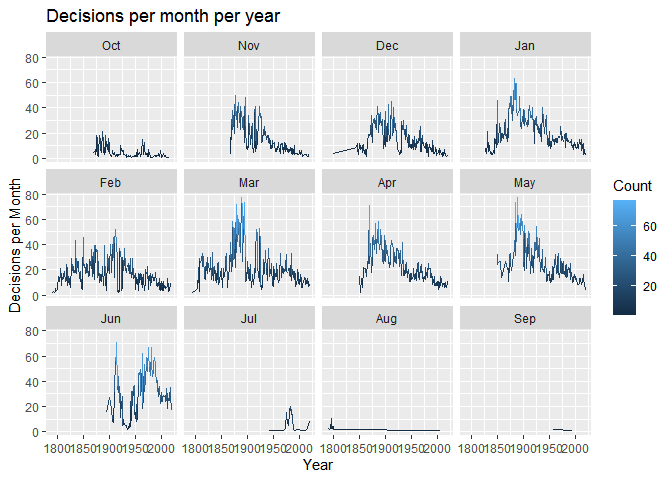
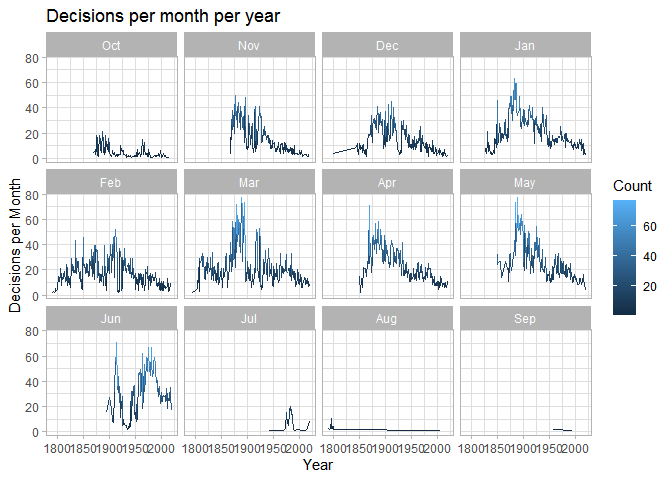
Solved the remaining bug and just finished the ex 5. Improved visualization on some lines.

Changed region(s): [[0.0625, 0.0625, 0.9062, 0.9062]]

diff --git a/scotus.md b/scotus.md
@@ -32,6 +32,8 @@ library(lubridate)
     ##     date, intersect, setdiff, union
 
 ``` r
+theme_set(theme_light())
+
 # load data
 case_data <- read_csv("data/scdb-case.csv")
 ```
@@ -99,12 +101,17 @@ case_data %>%
   mutate(difference = majVotes - minVotes) %>%
   group_by(term) %>%
   summarize(one_vote_margin = sum(difference == "1") / n()) %>%
-  ggplot() +
-  geom_line(aes(x = term, y = one_vote_margin, color = one_vote_margin)) +
+  ggplot(aes(x = term, y = one_vote_margin, color = one_vote_margin)) +
+  geom_line() +
+  geom_smooth() +
   labs(title = "Percentage of one-vote margin decisions per term", x = "Term", y = "Percentage", color = "Percentage")
 ```
 
     ## `summarise()` ungrouping output (override with `.groups` argument)
+
+    ## `geom_smooth()` using method = 'loess' and formula 'y ~ x'
+
+    ## Warning: Removed 15 rows containing non-finite values (stat_smooth).
 
 ![](scotus_files/figure-gfm/unnamed-chunk-3-1.png)<!-- -->
 
@@ -161,7 +168,8 @@ dated_case_data <- case_data %>%
 unCon_data <- case_data %>%
   inner_join(vote_data) %>% #coordinate individual justices with constitutionality ruling
   group_by(justiceName) %>% #using individual justices as frame of analysis
-  filter(declarationUncon != 1 & n() > 30) %>% #filtering out unwanted cases
+  filter(declarationUncon != 1) %>% #filtering unconstitutionality rulings
+  filter(n() >= 30) %>% #filtering out unwanted cases
   summarize(agree_unCon = sum(vote == 1, na.rm = TRUE) / n()) #creating a "proportion of agreement" variable, while avoiding NA messing up the analysis
 ```
 
@@ -174,8 +182,8 @@ most_agr <- slice_max(unCon_data, n = 10, agree_unCon) #slicing top 10 most agre
 least_agr <- slice_min(unCon_data, n = 10, agree_unCon) #slicing top 10 least agreeable
 
 ggplot(most_agr) +
-  geom_col(aes(x = justiceName, y = agree_unCon, fill = agree_unCon)) +
-  labs(title = "Unconstitutionality Agreement", x = "Justice Name", y = "Ratio of Agreements", fill = "Agreements") +
+  geom_col(aes(x = justiceName, y = agree_unCon, fill = justiceName)) +
+  labs(title = "Unconstitutionality Agreement", x = "Justice Name", y = "Ratio of Agreements", fill = "Justices") +
   coord_flip()
 ```
 
@@ -183,14 +191,33 @@ ggplot(most_agr) +
 
 ``` r
 ggplot(least_agr) +
-  geom_col(aes(x = justiceName, y = agree_unCon, fill = agree_unCon)) +
-  labs(title = "Unconstitutionality Disagreement", x = "Justice Name", y = "Ratio of Agreements", fill = "Agreements") +
+  geom_col(aes(x = justiceName, y = agree_unCon, fill = justiceName)) +
+  labs(title = "Unconstitutionality Disagreement", x = "Justice Name", y = "Ratio of Agreements", fill = "Justices") +
   coord_flip()
 ```
 
 ![](scotus_files/figure-gfm/unnamed-chunk-6-2.png)<!-- -->
 
 ## In each term he served on the Court, in what percentage of cases was Justice Antonin Scalia in the majority?
+
+``` r
+scalia_data <- filter(vote_data, justice == 105) %>%
+  group_by(term) %>%
+  summarize(maj_ratio = sum(majority == 2, na.rm = TRUE) / n())
+```
+
+    ## `summarise()` ungrouping output (override with `.groups` argument)
+
+``` r
+ggplot(scalia_data, aes(x = term, y = maj_ratio, color = maj_ratio)) +
+  geom_line() +
+  geom_smooth() +
+  labs(title = "Ratio of Scalia's Majority Votes per Term", x = "Terms", y = "Ratio of Majority Votes", color = "Ratio")
+```
+
+    ## `geom_smooth()` using method = 'loess' and formula 'y ~ x'
+
+![](scotus_files/figure-gfm/unnamed-chunk-7-1.png)<!-- -->
 
 ## Create a graph similar to above that adds a second component which compares the percentage for all cases versus non-unanimous cases (i.e. there was at least one dissenting vote)
 
@@ -250,12 +277,16 @@ devtools::session_info()
     ##  jsonlite      1.7.1   2020-09-07 [1] CRAN (R 4.0.2)
     ##  knitr         1.30    2020-09-22 [1] CRAN (R 4.0.2)
     ##  labeling      0.3     2014-08-23 [1] CRAN (R 4.0.0)
+    ##  lattice       0.20-41 2020-04-02 [2] CRAN (R 4.0.2)
     ##  lifecycle     0.2.0   2020-03-06 [1] CRAN (R 4.0.2)
     ##  lubridate   * 1.7.9   2020-06-08 [1] CRAN (R 4.0.2)
     ##  magrittr      1.5     2014-11-22 [1] CRAN (R 4.0.2)
+    ##  Matrix        1.2-18  2019-11-27 [2] CRAN (R 4.0.2)
     ##  memoise       1.1.0   2017-04-21 [1] CRAN (R 4.0.2)
+    ##  mgcv          1.8-31  2019-11-09 [2] CRAN (R 4.0.2)
     ##  modelr        0.1.8   2020-05-19 [1] CRAN (R 4.0.2)
     ##  munsell       0.5.0   2018-06-12 [1] CRAN (R 4.0.2)
+    ##  nlme          3.1-148 2020-05-24 [2] CRAN (R 4.0.2)
     ##  pillar        1.4.6   2020-07-10 [1] CRAN (R 4.0.2)
     ##  pkgbuild      1.1.0   2020-07-13 [1] CRAN (R 4.0.2)
     ##  pkgconfig     2.0.3   2019-09-22 [1] CRAN (R 4.0.2)
